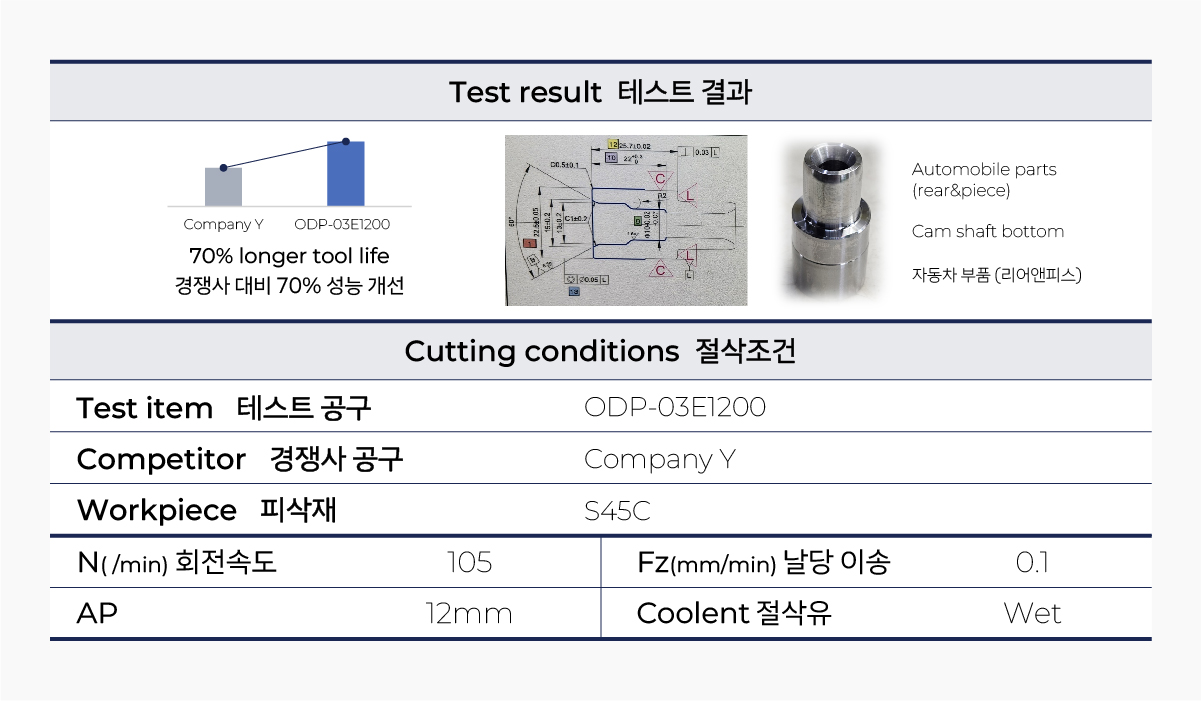
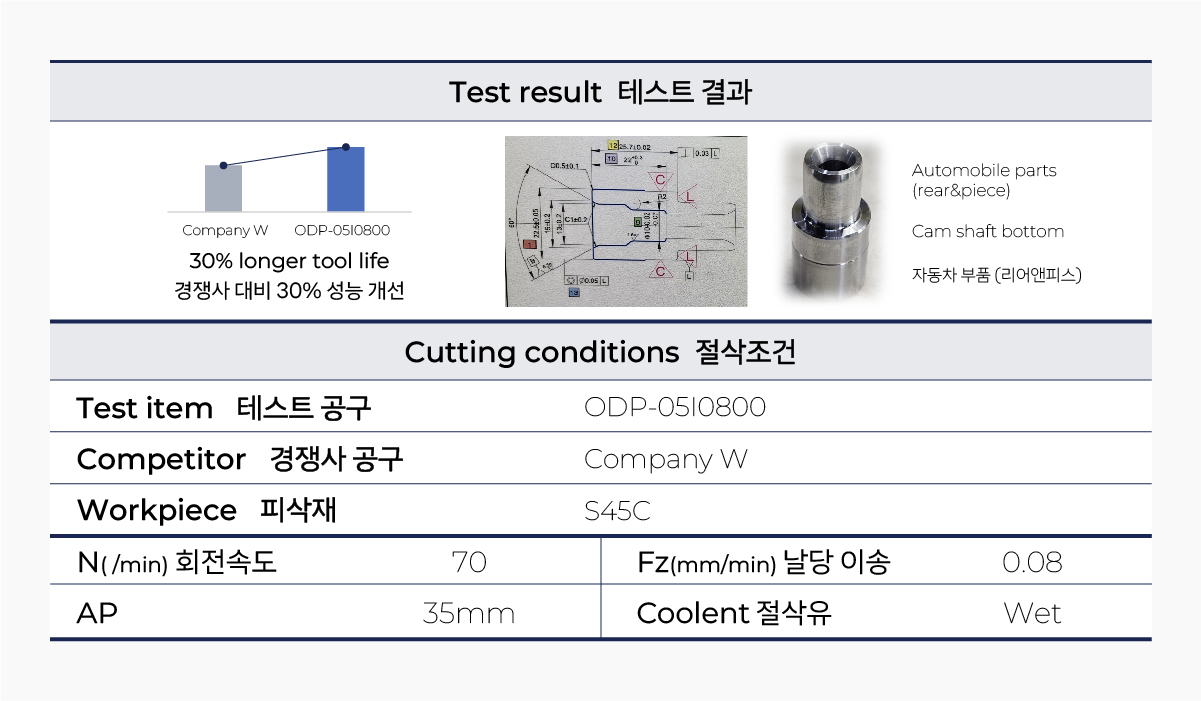
changes in product

diff --git a/src/templates/Contact/From.js b/src/templates/Contact/From.js
@@ -49,10 +49,10 @@ const From = () => {
                             placeholder={'Write Your Message *'}
                         />
 
-                        <FormInput
+                        {/* <FormInput
                             tag={'button'}
                             classes={'btn-outline'}
-                        />
+                        /> */}
 
                         <div className="form-message"/>
                     </div>

diff --git a/src/components/Funfact/index.js b/src/components/Funfact/index.js
@@ -6,7 +6,7 @@ import Funfacts from '../../data/Funfact/funfact'
 
 function Funfact() {
     return (
-        <div className="fun-fact-area sm-top parallax" style={{ backgroundImage: `url(${funfactbg})` }}>
+        <div className="fun-fact-area sm-top parallax" style={{ backgroundImage: `` }}>
             <div className="container">
                 <div className="row mtn-40">
                     {
